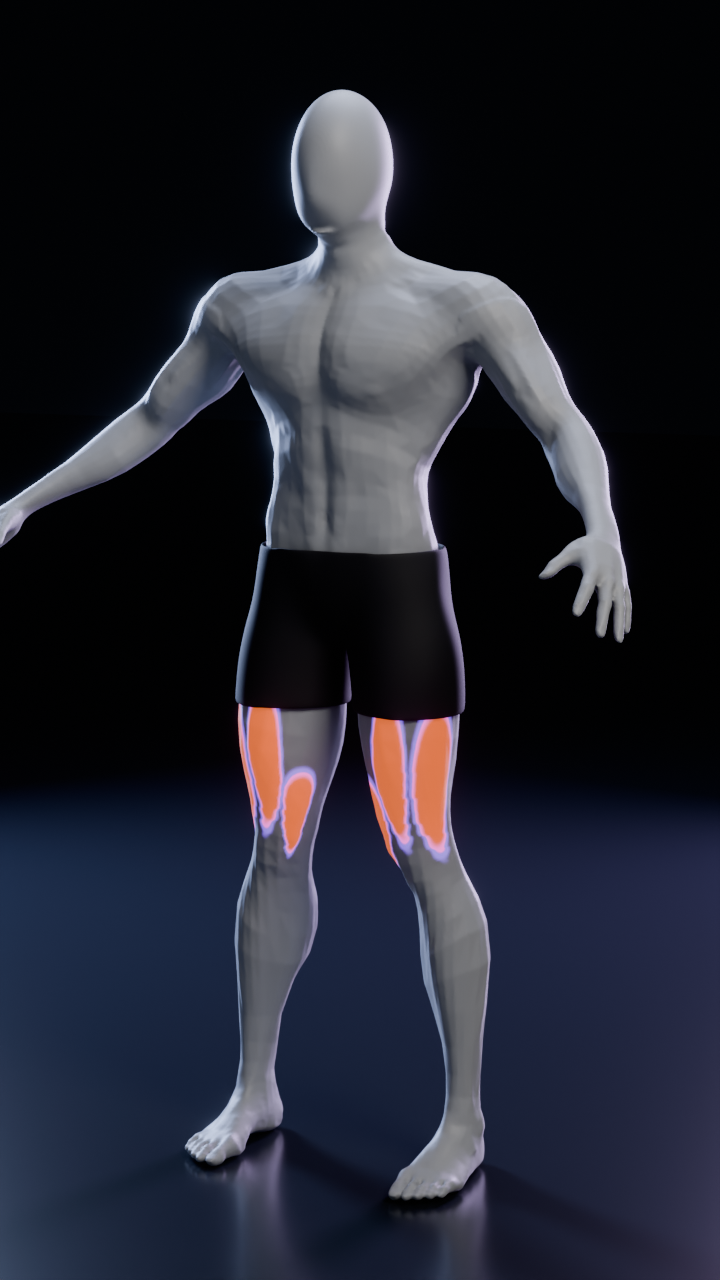
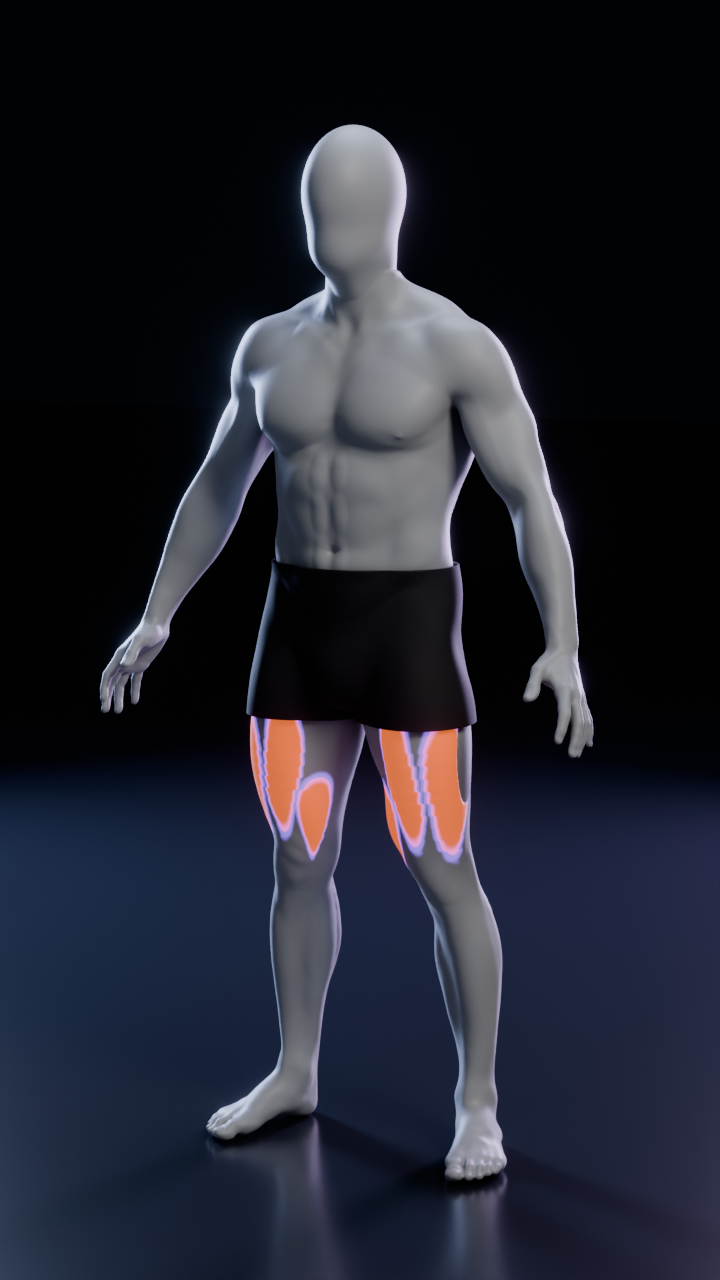
Use Blender Studio realistic male as the body for all renders
Default body is now GEO-body_male_realistic from the Human Base Meshes pack.
Blank head is sized from the head alone and blends into the neck; shorts hem
no longer clipped on the outer thigh; finer remesh keeps the sculpt detail.

Claude-Session: https://claude.ai/code/session_017PDqWh9GqNqgcAG13mYHah

Changed region(s): [[0.0, 0.0625, 0.8861, 1.0], [0.9472, 0.5938, 1.0, 0.6562], [0.0, 0.5938, 0.0611, 0.625]]

diff --git a/exercise-library/scripts/studio.py b/exercise-library/scripts/studio.py
@@ -35,7 +35,7 @@ BODY_TARGETS = {
 }
 
 HEAD_ITER = 150     # smoothing passes on the new head
-VOXEL = 0.0035      # remesh detail in metres (smaller = finer, slower)
+VOXEL = 0.0022      # remesh detail in metres (smaller = finer, slower)
 
 
 
@@ -140,15 +140,20 @@ def faceless_head(obj):
     co, _, _ = mesh_arrays(obj)
     top = co[:, 2].max(); s = top / 1.8
     chin = find_chin(co)
-    head = co[(co[:, 2] > chin - 0.07 * s) & (np.abs(co[:, 0]) < 0.13 * s)]
+    # Size the new head from the head alone (chin up), so it keeps normal proportions.
+    head = co[(co[:, 2] > chin - 0.005 * s) & (np.abs(co[:, 0]) < 0.13 * s)]
     core = head[np.abs(head[:, 0]) < np.percentile(np.abs(head[:, 0]), 90)]
     lo, hi = core.min(0), core.max(0)
     centre = (lo + hi) / 2; centre[0] = 0
-    radius = (hi - lo) / 2 * np.array([1.0, 1.0, 1.03])
+    radius = (hi - lo) / 2 * np.array([0.97, 0.98, 1.0])
+    neck_depth = chin - 0.07 * s          # the lower cap reaches this far down, into the neck
 
     bm = bmesh.new()
     bmesh.ops.create_uvsphere(bm, u_segments=72, v_segments=48, radius=1.0)
-    sph = np.array([v.co[:] for v in bm.verts]) * radius + centre
+    unit = np.array([v.co[:] for v in bm.verts])
+    sph = unit * radius + centre
+    below = unit[:, 2] < 0
+    sph[below, 2] = centre[2] + unit[below, 2] * (centre[2] - neck_depth)
     edges = np.array([[e.verts[0].index, e.verts[1].index] for e in bm.edges])
     faces = [[v.index for v in f.verts] for f in bm.faces]
     bm.free()
@@ -160,8 +165,10 @@ def faceless_head(obj):
     # Pull the upper head toward a clean egg (no brow, nose or cheek shapes);
     # the jaw and neck keep their real shape so the head still sits naturally.
     d = (sph - centre) / radius
-    egg = centre + d / np.linalg.norm(d, axis=1, keepdims=True) * radius * np.array([0.97, 0.97, 1.0])
-    k = (0.5 + 0.35 * smoothstep(-0.75, -0.2, d[:, 2]))[:, None]
+    egg = centre + d / np.linalg.norm(d, axis=1, keepdims=True) * radius
+    # Skull and face become a clean egg; the jaw fades into the real neck shape.
+    zc = (sph[:, 2] - chin) / (centre[2] - chin)
+    k = (0.85 * smoothstep(0.05, 0.6, zc))[:, None]
     sph = sph * (1 - k) + egg * k
     sph = taubin(sph, edges, 1.0, 30)
     sph += (sph - centre) * 0.015        # tiny inflate so no old feature pokes through
@@ -223,7 +230,7 @@ def shorts_from_body(body, top=0.585, bottom=0.435, gap=0.004):
     co, no, _ = mesh_arrays(body)
     H = co[:, 2].max()
     bm = bmesh.new(); bm.from_mesh(body.data)
-    for f in [f for f in bm.faces if not all(bottom * H - 0.05 < v.co.z < top * H + 0.05 and abs(v.co.x) < 0.2 * H / 1.8
+    for f in [f for f in bm.faces if not all(bottom * H - 0.05 < v.co.z < top * H + 0.05 and abs(v.co.x) < 0.235 * H / 1.8
                                            for v in f.verts)]:
         bm.faces.remove(f)
     bmesh.ops.delete(bm, geom=[v for v in bm.verts if not v.link_faces], context='VERTS')
@@ -239,8 +246,8 @@ def shorts_from_body(body, top=0.585, bottom=0.435, gap=0.004):
     return shorts
 
 
-def build_body(source='makehuman'):
-    """source: 'makehuman', or the object name of a body in the Human Base Meshes pack."""
+def build_body(source='GEO-body_male_realistic'):
+    """source: a body in the Human Base Meshes pack (default: the realistic male), or 'makehuman'."""
     if source != 'makehuman':
         body = load_hbm_body(source)
         faceless_head(body)

diff --git a/exercise-library/scripts/look_test.py b/exercise-library/scripts/look_test.py
@@ -48,7 +48,8 @@ else:
 for name, d in shots.items():
     for o in [o for o in bpy.data.objects if o.type in ('LIGHT', 'CAMERA') or o.name.startswith('Plane')]:
         bpy.data.objects.remove(o)
-    studio.build_studio(cam_dir=d, target=(0, 0, 0.95), frame_height=2.3)
+    H = max(v.co.z for v in body.data.vertices)
+    studio.build_studio(cam_dir=d, target=(0, 0, H * 0.51), frame_height=H * 1.24)
     studio.setup_render(samples=samples if name == 'look_test' else 24)
     bpy.context.scene.render.filepath = str(OUT / f'{name}.png')
     bpy.ops.render.render(write_still=True)
